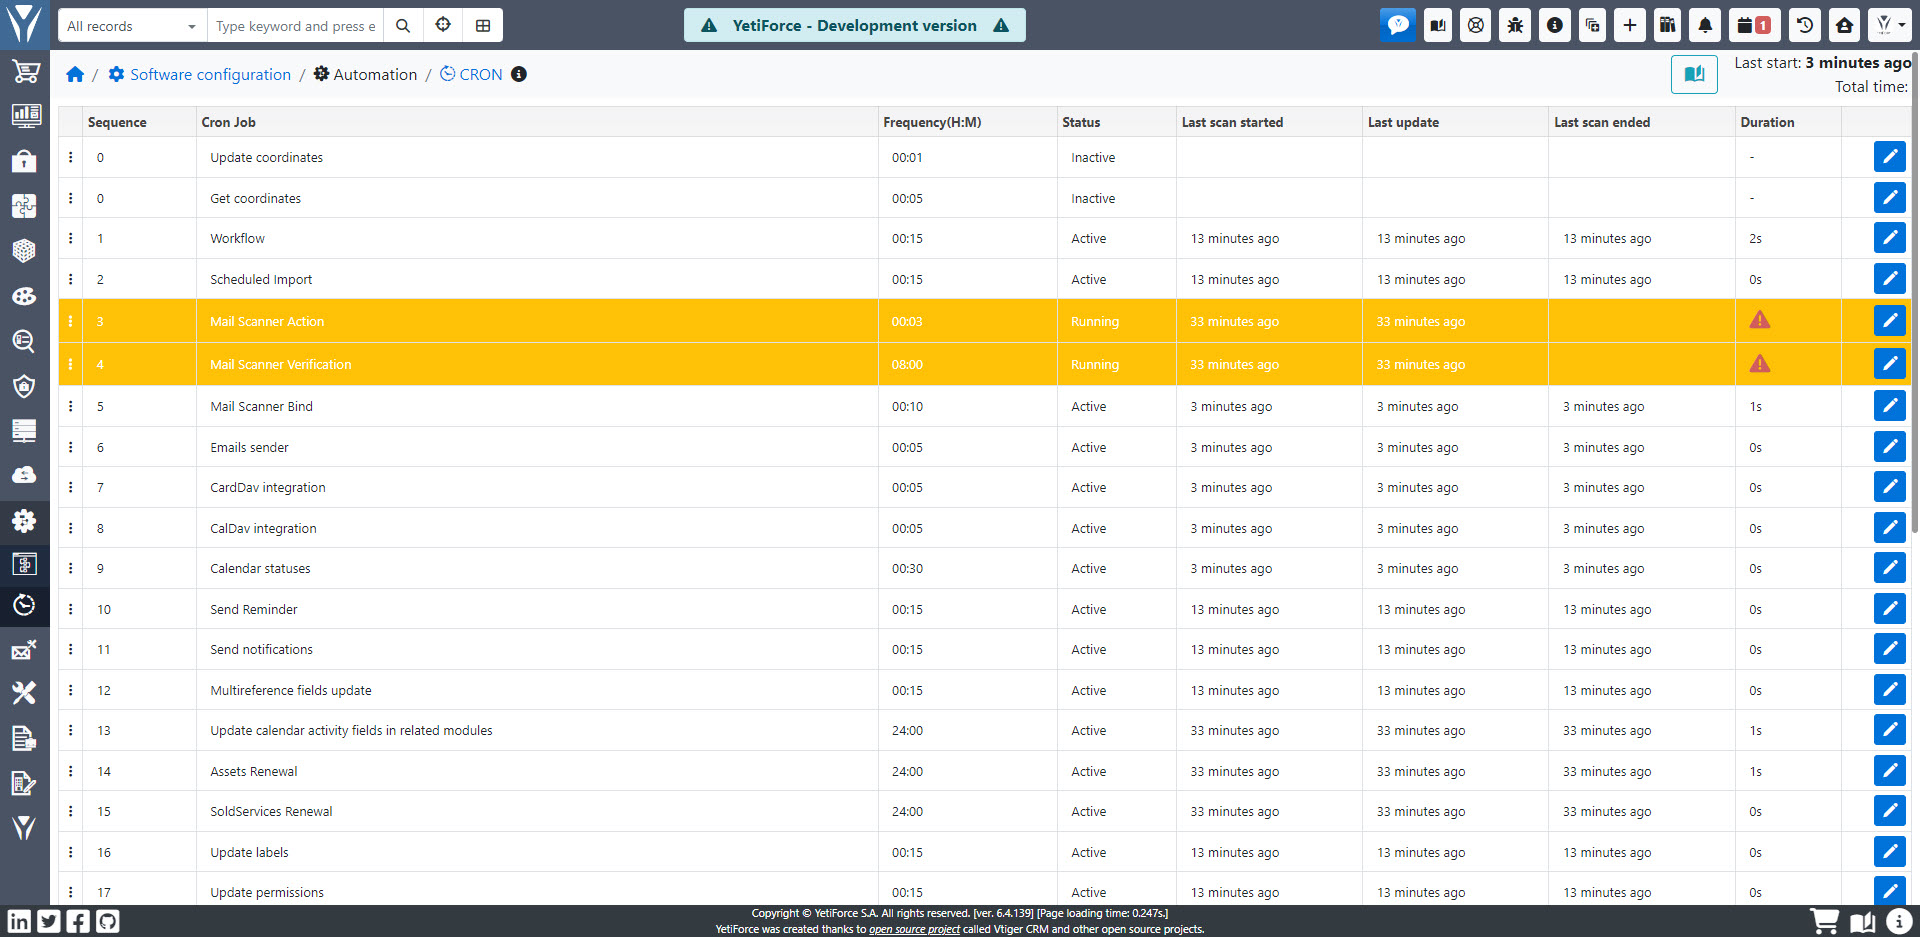
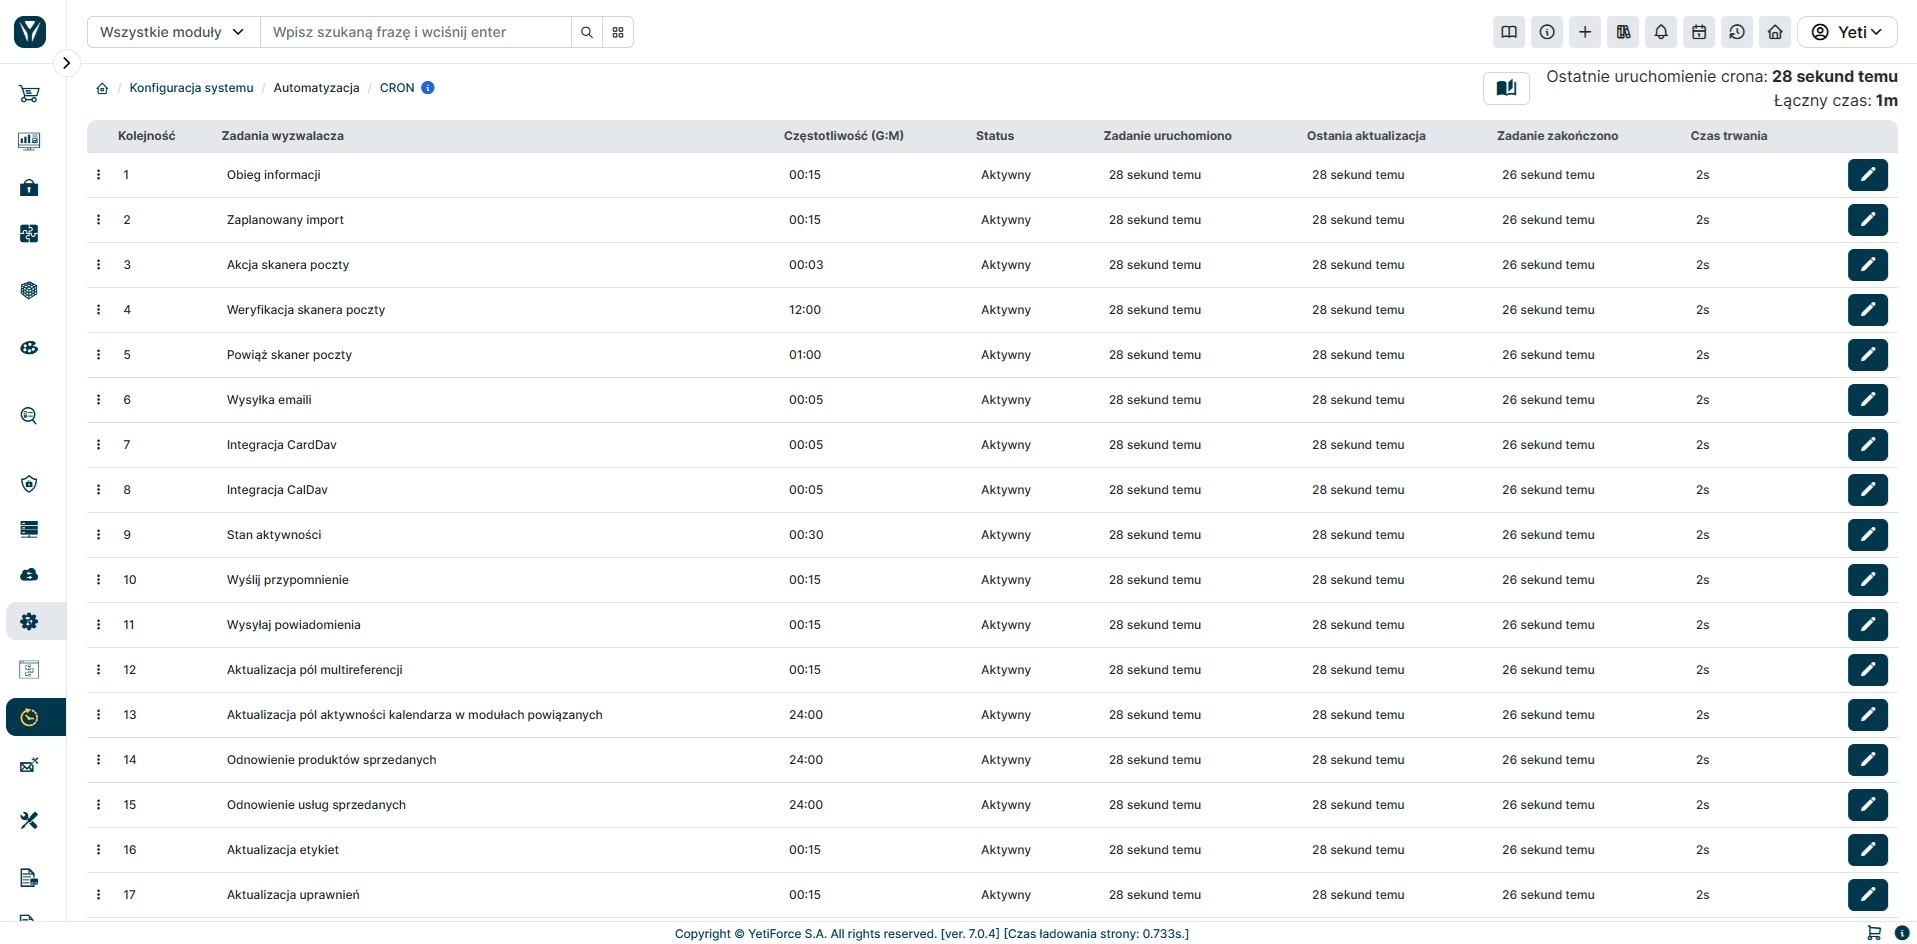
fix: YD-89 - Clarified CRON execution method and updated main screenshot to reflect newer system version

diff --git a/docs/3-administrator-guides/16-automation/2-cron/README.md b/docs/3-administrator-guides/16-automation/2-cron/README.md
@@ -1,8 +1,9 @@
 ---
 title: CRON | Harmonogram
-description: Details on CRON and how to enable it in YetiForce.
+description: Informacje dotyczące mechanizmu CRON i sposobie jego uruchomienia
 keywords:
   - CRON
+  - crontab
   - włącz
   - automatyzacja
   - CLI
@@ -22,35 +23,51 @@ Cron to uniksowy demon zajmujący się okresowym wywoływaniem innych programów
 
 CRON można włączyć w kilku prostych krokach:
 
-### Linux - edytuj plik /etc/crontab, /etc/cron.d/yetiforce lub 'crontab -e':
+### Linux - edytuj plik /etc/crontab lub /etc/cron.d/yetiforce lub 'crontab -e':
 
-- Dodaj wpis do crontab, lub plik do CRON, np. w takim formacie (`__YETIFORCE_PATH__`jest pełną ścieżką bezwzględną do folderu systemu YetiForce, np. /var/www/example),
+- Dodaj wpis do crontab, lub plik do CRON, np. w takim formacie (`__YETIFORCE_PATH__`jest pełną ścieżką bezwzględną do folderu systemu YetiForce, np. /var/www/yetiforce),
 
-  :::warning
-
-  Ważne jest, aby skrypt był uruchamiany z takimi samymi uprawnieniami jak właściciel plików systemowych.
-
-  :::
+:::warning
+Ważne jest, aby skrypt był uruchamiany z takimi samymi uprawnieniami jak właściciel plików systemowych.
+:::
 
 ```bash
-*/2 * * * * www-data __YETIFORCE_PATH__/cron/cron.sh > __YETIFORCE_PATH__/cache/logs/cron.log 2>&1
-*/2 * * * * www-data sh /var/www/cron/cron.sh > /var/www/cache/logs/cron.log 2>&1
-*/2 * * * * sh __YETIFORCE_PATH__/cron/cron.sh > __YETIFORCE_PATH__/cache/logs/cron.log 2>&1
-*/2 * * * * php __YETIFORCE_PATH__/cron.php > __YETIFORCE_PATH__/cache/logs/cron.log 2>&1
-*/2 * * * * cd __YETIFORCE_PATH__; /usr/local/bin/php -f cron.php > __YETIFORCE_PATH__/cache/logs/cron.log 2>&1
+*/2 * * * * www-data sh __YETIFORCE_PATH__/cron/cron.sh > __YETIFORCE_PATH__/cache/logs/cron.log 2>&1
 ```
+
+<details> 
+  <summary>Alternatywne sposoby włączenia CRON, jeżeli powyższy nie działa (rozwiń)</summary>
+  ```bash
+  */2 * * * * www-data __YETIFORCE_PATH__/cron/cron.sh > __YETIFORCE_PATH__/cache/logs/cron.log 2>&1
+  ```
+  ```bash
+  */2 * * * * sh __YETIFORCE_PATH__/cron/cron.sh > __YETIFORCE_PATH__/cache/logs/cron.log 2>&1
+  ```
+  ```bash
+  */2 * * * * php __YETIFORCE_PATH__/cron.php > __YETIFORCE_PATH__/cache/logs/cron.log 2>&1
+  ```
+  ```bash
+  */2 * * * * cd __YETIFORCE_PATH__; /usr/local/bin/php -f cron.php > __YETIFORCE_PATH__/cache/logs/cron.log 2>&1
+  ```
+</details>
 
 - Zmień uprawnienia pliku `__YETIFORCE_PATH__`/cron/cron.sh na 744 (lub inne uprawnienia kompatybilne z wewnętrzną polityką bezpieczeństwa w firmie).
 
 ![cron](cron-2.png)
 
-- Ustaw ścieżkę w pliku `__YETIFORCE_PATH__`/cron/cron.sh do PHP: export USE_PHP=/usr/local/php74/bin/php74 (zwróć uwagę na plik, ponieważ może znajdować się w innej lokalizacji na każdym serwerze, zwrócić uwagę na ścieżkę do PHP, która jest inna dla różnych serwerów. Ścieżkę tą może Ci podać administrator serwera lub możesz ją sprawdzić w phpinfo).
+- Ustaw ścieżkę w pliku `__YETIFORCE_PATH__`/cron/cron.sh do PHP, np.:
+```bash
+export USE_PHP=/usr/local/php74/bin/php74 
+```
+:::warning
+Zwróć uwagę na ścieżkę pliku **cron.sh**, ponieważ może znajdować się w innej lokalizacji na każdym serwerze, a także na ścieżkę do PHP, która również może być inna dla różnych serwerów. Ścieżkę tą może Ci podać administrator serwera lub możesz ją sprawdzić w phpinfo.
+:::
 
-  ![cron](cron-3.png)
+![cron](cron-3.png)
 
 - Zwróć uwagę na koniec linii, ponieważ powinna to być Unix (LF). Jeśli jest to Windows na serwerach Linux, może to spowodować błędy, a system nie będzie w stanie uruchomić pliku SH.
 
-  ![cron](cron-4.png)
+![cron](cron-4.png)
 
 ### Windows - nie zaleca się używania Windows jako serwera dla systemu YetiForce.
 
@@ -64,6 +81,12 @@ CRON można włączyć w kilku prostych krokach:
 
 ```bash
 */2 * * * * /usr/bin/lynx -source https://demo.yetiforce.com/cron.php?app_key=xxxx
+```
+lub
+```bash
 */2 * * * * /usr/bin/wget -O - -q -t 1 https://demo.yetiforce.com/cron.php?app_key=xxxx
+```
+lub
+```bash
 */2 * * * * curl -s https://demo.yetiforce.com/cron.php?app_key=xxxx
 ```
